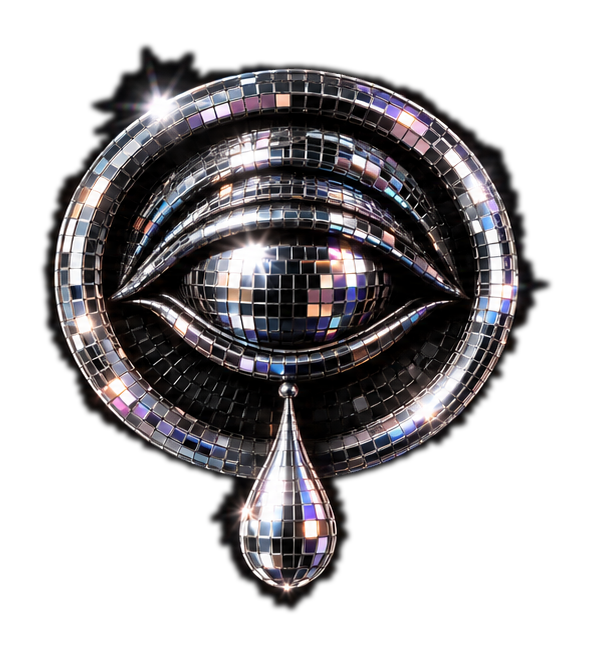
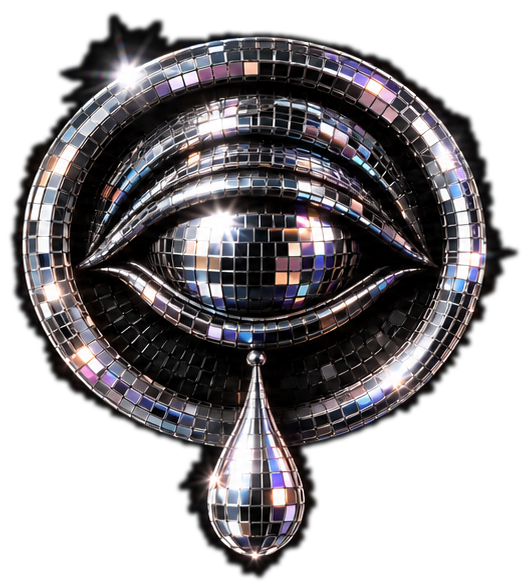
fix(ui): enlarge creator marks and lighten player capsule edge overlap

diff --git a/BeatOS/data/catalogo.html b/BeatOS/data/catalogo.html
@@ -1045,7 +1045,7 @@
     background: linear-gradient(180deg, rgba(28, 32, 46, 0.94) 0%, rgba(17, 19, 28, 0.97) 100%);
     border: 1.5px solid var(--theme-accent, #ff6600);
     border-radius: 14px;
-    padding: 10px 24px;
+    padding: 8px 22px;
     display: flex;
     align-items: center;
     justify-content: space-between;
@@ -1056,8 +1056,8 @@
     gap: 16px;
     box-sizing: border-box;
     overflow: visible;
-    min-height: 155px;
-    height: 155px;
+    min-height: 158px;
+    height: 158px;
   }
   .player-track-info {
     display: flex;
@@ -2403,10 +2403,10 @@ body:has(#tab-rack.active) .rack-floating-badge { display: none; }
 :root[data-theme="makerlicious-bone"] .beatos-brand .brand-description::after { background: linear-gradient(90deg, #ff6600, transparent); }
  .creator-mark { display:flex; align-items:center; justify-content:center; overflow:visible; mix-blend-mode:screen; pointer-events:none; }
 .creator-mark img { display:block; object-fit:contain; width:auto; max-width:none; transform:none; transition:transform .2s ease, filter .2s ease; }
-.creator-mark--label { position:relative; width:auto; height:124px; flex:0 0 auto; display:flex; align-items:center; justify-content:center; margin-right:-135px; z-index:1; }
-.creator-mark--label img { height:118px; width:auto; max-width:none; object-fit:contain; display:block; transform:none; }
-.creator-mark:not(.creator-mark--label) { position:relative; width:auto; height:124px; flex:0 0 auto; display:flex; align-items:center; justify-content:center; margin-left:-115px; z-index:1; }
-.creator-mark:not(.creator-mark--label) img { height:118px; width:auto; max-width:none; object-fit:contain; display:block; transform:none; }
+.creator-mark--label { position:relative; width:auto; height:142px; flex:0 0 auto; display:flex; align-items:center; justify-content:center; margin-right:-34px; z-index:1; }
+.creator-mark--label img { height:138px; width:auto; max-width:none; object-fit:contain; display:block; transform:none; }
+.creator-mark:not(.creator-mark--label) { position:relative; width:auto; height:142px; flex:0 0 auto; display:flex; align-items:center; justify-content:center; margin-left:-26px; z-index:1; }
+.creator-mark:not(.creator-mark--label) img { height:136px; width:auto; max-width:none; object-fit:contain; display:block; transform:none; }
 
 /* Calibración visual de identidad por tema */
 :root[data-theme="te-arcade"] .creator-mark:not(.creator-mark--label) img,
@@ -2439,7 +2439,7 @@ body:has(#tab-rack.active) .rack-floating-badge { display: none; }
   display:flex;
   align-items:center;
   justify-content:center;
-  width:350px;
+  width:340px;
   height:46px;
   border-radius:23px;
   flex-shrink:0;
@@ -2475,30 +2475,30 @@ audio::-webkit-media-controls-panel { background-color:rgba(10,12,18,0.12); }
 .audio-player-bar #btnCopyPlayer { position:absolute; bottom:-28px; left:50%; transform:translateX(-50%); z-index:4; white-space:nowrap; }
 
 @media(max-width:1080px) {
- .audio-player-bar { padding: 8px 18px; gap: 12px; min-height: 140px; height: 140px; }
+ .audio-player-bar { padding: 8px 18px; gap: 12px; min-height: 142px; height: 142px; }
  .audio-player-bar .player-controls { max-width: 720px; }
- .player-track-info { flex: 1 1 300px; min-width: 260px; max-width: 360px; }
+ .player-track-info { flex: 1 1 280px; min-width: 240px; max-width: 340px; }
  .player-track-title { font-size: 21px; }
  .player-track-path { font-size: 15px; }
  .player-audio-capsule { width: 300px; height: 44px; margin-right: 0; }
  .player-audio-capsule audio { height: 44px; }
- .creator-mark--label { height: 110px; margin-right: -115px; }
- .creator-mark--label img { height: 106px; width: auto; transform: none; }
- .creator-mark:not(.creator-mark--label) { height: 110px; margin-left: -102px; }
- .creator-mark:not(.creator-mark--label) img { height: 106px; width: auto; transform: none; }
+ .creator-mark--label { height: 124px; margin-right: -28px; }
+ .creator-mark--label img { height: 120px; width: auto; transform: none; }
+ .creator-mark:not(.creator-mark--label) { height: 124px; margin-left: -22px; }
+ .creator-mark:not(.creator-mark--label) img { height: 118px; width: auto; transform: none; }
 }
 @media(max-width:760px) {
  .audio-player-bar { display:grid; grid-template-columns:minmax(0,1fr); gap:6px; padding:10px 14px; min-height:auto; height:auto; bottom:8px; left:10px; right:10px; border-radius:10px; overflow: hidden; }
  .audio-player-bar .player-track-info { min-width:0; flex: 1 1 auto; max-width: 100%; }
  .audio-player-bar .player-track-title { font-size: 17px; }
  .audio-player-bar .player-track-path { font-size: 13.5px; }
- .audio-player-bar .player-controls { display:flex; flex-wrap:nowrap; align-items:center; justify-content:flex-end; max-width:100%; width:100%; height:96px; margin-left:0; gap:0; }
- .player-audio-capsule { flex:1 1 230px; max-width:310px; width:auto; height:42px; margin-right: 0; z-index: 3; }
+ .audio-player-bar .player-controls { display:flex; flex-wrap:nowrap; align-items:center; justify-content:flex-end; max-width:100%; width:100%; height:100px; margin-left:0; gap:0; }
+ .player-audio-capsule { flex:1 1 210px; max-width:290px; width:auto; height:42px; margin-right: 0; z-index: 3; }
  .player-audio-capsule audio { height: 42px; }
- .creator-mark--label { height:90px; margin-right: -96px; z-index: 1; }
- .creator-mark--label img { height: 88px; width: auto; transform: none; }
- .creator-mark:not(.creator-mark--label) { height: 90px; margin-left: -84px; z-index: 1; }
- .creator-mark:not(.creator-mark--label) img { height: 88px; width: auto; transform: none; }
+ .creator-mark--label { height:96px; margin-right: -20px; z-index: 1; }
+ .creator-mark--label img { height: 92px; width: auto; transform: none; }
+ .creator-mark:not(.creator-mark--label) { height: 96px; margin-left: -18px; z-index: 1; }
+ .creator-mark:not(.creator-mark--label) img { height: 92px; width: auto; transform: none; }
  .tabs { padding:8px 10px; gap:5px; }
  .tab-btn { font-size:13px; padding:7px 11px; }
 }
@@ -3639,12 +3639,12 @@ audio::-webkit-media-controls-panel { background-color:rgba(10,12,18,0.12); }
     <span class="player-track-path" id="nowPlayingPath">Haz clic en ▶ Play en cualquier sonido</span>
   </div>
   <div class="player-controls" role="group" aria-label="Reproductor y símbolos de Astro1Deep">
-    <span class="creator-mark creator-mark--label"><img src="BeatOS/docs/assets/branding/creator/label-rocket.png" width="868" height="540" alt="Cohete del sello digital" decoding="async"></span>
+    <span class="creator-mark creator-mark--label"><img src="BeatOS/docs/assets/branding/creator/label-rocket.png" width="804" height="476" alt="Cohete del sello digital" decoding="async"></span>
     <div class="player-audio-capsule">
       <audio id="audioPlayer" controls></audio>
       <button id="btnCopyPlayer" class="btn-copy" style="display:none;" onclick="copyActivePath()">📋 Copiar Ruta MPC</button>
     </div>
-    <span class="creator-mark" data-art="eye-mirror-compact"><img id="creatorArtistMark" src="BeatOS/docs/assets/branding/creator/eye-mirror-compact.png" width="645" height="681" alt="Símbolo de Astro1Deep: ojo y lágrima" decoding="async"></span>
+    <span class="creator-mark" data-art="eye-mirror-compact"><img id="creatorArtistMark" src="BeatOS/docs/assets/branding/creator/eye-mirror-compact.png" width="581" height="617" alt="Símbolo de Astro1Deep: ojo y lágrima" decoding="async"></span>
   </div>
 </div>
 

diff --git a/templates/catalogo.html b/templates/catalogo.html
@@ -1045,7 +1045,7 @@
     background: linear-gradient(180deg, rgba(28, 32, 46, 0.94) 0%, rgba(17, 19, 28, 0.97) 100%);
     border: 1.5px solid var(--theme-accent, #ff6600);
     border-radius: 14px;
-    padding: 10px 24px;
+    padding: 8px 22px;
     display: flex;
     align-items: center;
     justify-content: space-between;
@@ -1056,8 +1056,8 @@
     gap: 16px;
     box-sizing: border-box;
     overflow: visible;
-    min-height: 155px;
-    height: 155px;
+    min-height: 158px;
+    height: 158px;
   }
   .player-track-info {
     display: flex;
@@ -2403,10 +2403,10 @@ body:has(#tab-rack.active) .rack-floating-badge { display: none; }
 :root[data-theme="makerlicious-bone"] .beatos-brand .brand-description::after { background: linear-gradient(90deg, #ff6600, transparent); }
  .creator-mark { display:flex; align-items:center; justify-content:center; overflow:visible; mix-blend-mode:screen; pointer-events:none; }
 .creator-mark img { display:block; object-fit:contain; width:auto; max-width:none; transform:none; transition:transform .2s ease, filter .2s ease; }
-.creator-mark--label { position:relative; width:auto; height:124px; flex:0 0 auto; display:flex; align-items:center; justify-content:center; margin-right:-135px; z-index:1; }
-.creator-mark--label img { height:118px; width:auto; max-width:none; object-fit:contain; display:block; transform:none; }
-.creator-mark:not(.creator-mark--label) { position:relative; width:auto; height:124px; flex:0 0 auto; display:flex; align-items:center; justify-content:center; margin-left:-115px; z-index:1; }
-.creator-mark:not(.creator-mark--label) img { height:118px; width:auto; max-width:none; object-fit:contain; display:block; transform:none; }
+.creator-mark--label { position:relative; width:auto; height:142px; flex:0 0 auto; display:flex; align-items:center; justify-content:center; margin-right:-34px; z-index:1; }
+.creator-mark--label img { height:138px; width:auto; max-width:none; object-fit:contain; display:block; transform:none; }
+.creator-mark:not(.creator-mark--label) { position:relative; width:auto; height:142px; flex:0 0 auto; display:flex; align-items:center; justify-content:center; margin-left:-26px; z-index:1; }
+.creator-mark:not(.creator-mark--label) img { height:136px; width:auto; max-width:none; object-fit:contain; display:block; transform:none; }
 
 /* Calibración visual de identidad por tema */
 :root[data-theme="te-arcade"] .creator-mark:not(.creator-mark--label) img,
@@ -2439,7 +2439,7 @@ body:has(#tab-rack.active) .rack-floating-badge { display: none; }
   display:flex;
   align-items:center;
   justify-content:center;
-  width:350px;
+  width:340px;
   height:46px;
   border-radius:23px;
   flex-shrink:0;
@@ -2475,30 +2475,30 @@ audio::-webkit-media-controls-panel { background-color:rgba(10,12,18,0.12); }
 .audio-player-bar #btnCopyPlayer { position:absolute; bottom:-28px; left:50%; transform:translateX(-50%); z-index:4; white-space:nowrap; }
 
 @media(max-width:1080px) {
- .audio-player-bar { padding: 8px 18px; gap: 12px; min-height: 140px; height: 140px; }
+ .audio-player-bar { padding: 8px 18px; gap: 12px; min-height: 142px; height: 142px; }
  .audio-player-bar .player-controls { max-width: 720px; }
- .player-track-info { flex: 1 1 300px; min-width: 260px; max-width: 360px; }
+ .player-track-info { flex: 1 1 280px; min-width: 240px; max-width: 340px; }
  .player-track-title { font-size: 21px; }
  .player-track-path { font-size: 15px; }
  .player-audio-capsule { width: 300px; height: 44px; margin-right: 0; }
  .player-audio-capsule audio { height: 44px; }
- .creator-mark--label { height: 110px; margin-right: -115px; }
- .creator-mark--label img { height: 106px; width: auto; transform: none; }
- .creator-mark:not(.creator-mark--label) { height: 110px; margin-left: -102px; }
- .creator-mark:not(.creator-mark--label) img { height: 106px; width: auto; transform: none; }
+ .creator-mark--label { height: 124px; margin-right: -28px; }
+ .creator-mark--label img { height: 120px; width: auto; transform: none; }
+ .creator-mark:not(.creator-mark--label) { height: 124px; margin-left: -22px; }
+ .creator-mark:not(.creator-mark--label) img { height: 118px; width: auto; transform: none; }
 }
 @media(max-width:760px) {
  .audio-player-bar { display:grid; grid-template-columns:minmax(0,1fr); gap:6px; padding:10px 14px; min-height:auto; height:auto; bottom:8px; left:10px; right:10px; border-radius:10px; overflow: hidden; }
  .audio-player-bar .player-track-info { min-width:0; flex: 1 1 auto; max-width: 100%; }
  .audio-player-bar .player-track-title { font-size: 17px; }
  .audio-player-bar .player-track-path { font-size: 13.5px; }
- .audio-player-bar .player-controls { display:flex; flex-wrap:nowrap; align-items:center; justify-content:flex-end; max-width:100%; width:100%; height:96px; margin-left:0; gap:0; }
- .player-audio-capsule { flex:1 1 230px; max-width:310px; width:auto; height:42px; margin-right: 0; z-index: 3; }
+ .audio-player-bar .player-controls { display:flex; flex-wrap:nowrap; align-items:center; justify-content:flex-end; max-width:100%; width:100%; height:100px; margin-left:0; gap:0; }
+ .player-audio-capsule { flex:1 1 210px; max-width:290px; width:auto; height:42px; margin-right: 0; z-index: 3; }
  .player-audio-capsule audio { height: 42px; }
- .creator-mark--label { height:90px; margin-right: -96px; z-index: 1; }
- .creator-mark--label img { height: 88px; width: auto; transform: none; }
- .creator-mark:not(.creator-mark--label) { height: 90px; margin-left: -84px; z-index: 1; }
- .creator-mark:not(.creator-mark--label) img { height: 88px; width: auto; transform: none; }
+ .creator-mark--label { height:96px; margin-right: -20px; z-index: 1; }
+ .creator-mark--label img { height: 92px; width: auto; transform: none; }
+ .creator-mark:not(.creator-mark--label) { height: 96px; margin-left: -18px; z-index: 1; }
+ .creator-mark:not(.creator-mark--label) img { height: 92px; width: auto; transform: none; }
  .tabs { padding:8px 10px; gap:5px; }
  .tab-btn { font-size:13px; padding:7px 11px; }
 }
@@ -3639,12 +3639,12 @@ audio::-webkit-media-controls-panel { background-color:rgba(10,12,18,0.12); }
     <span class="player-track-path" id="nowPlayingPath">Haz clic en ▶ Play en cualquier sonido</span>
   </div>
   <div class="player-controls" role="group" aria-label="Reproductor y símbolos de Astro1Deep">
-    <span class="creator-mark creator-mark--label"><img src="BeatOS/docs/assets/branding/creator/label-rocket.png" width="868" height="540" alt="Cohete del sello digital" decoding="async"></span>
+    <span class="creator-mark creator-mark--label"><img src="BeatOS/docs/assets/branding/creator/label-rocket.png" width="804" height="476" alt="Cohete del sello digital" decoding="async"></span>
     <div class="player-audio-capsule">
       <audio id="audioPlayer" controls></audio>
       <button id="btnCopyPlayer" class="btn-copy" style="display:none;" onclick="copyActivePath()">📋 Copiar Ruta MPC</button>
     </div>
-    <span class="creator-mark" data-art="eye-mirror-compact"><img id="creatorArtistMark" src="BeatOS/docs/assets/branding/creator/eye-mirror-compact.png" width="645" height="681" alt="Símbolo de Astro1Deep: ojo y lágrima" decoding="async"></span>
+    <span class="creator-mark" data-art="eye-mirror-compact"><img id="creatorArtistMark" src="BeatOS/docs/assets/branding/creator/eye-mirror-compact.png" width="581" height="617" alt="Símbolo de Astro1Deep: ojo y lágrima" decoding="async"></span>
   </div>
 </div>
 
